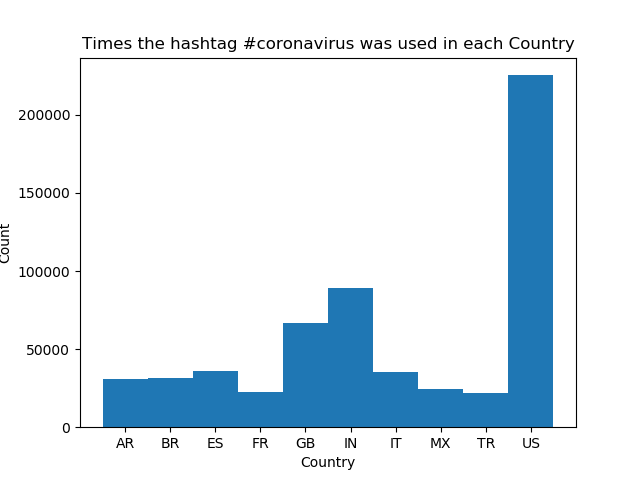
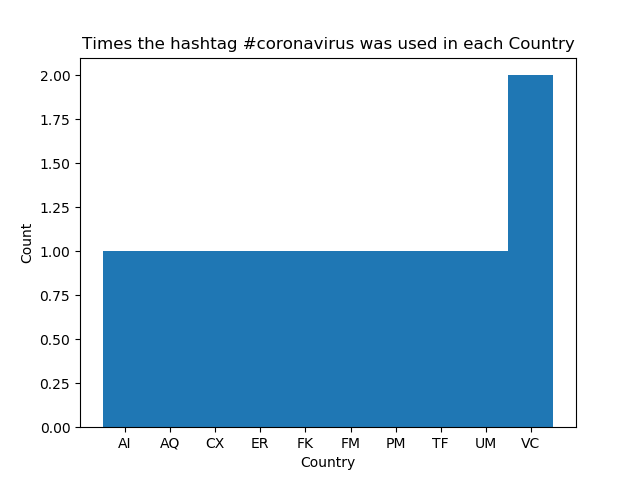
new graph

diff --git a/src/visualize.py b/src/visualize.py
@@ -34,7 +34,7 @@ for k,v in items:
     print(k,':',v)
 
 # create bar graph
-graphItems = sorted(items, key = lambda x : x[1], reverse = True)[:10]
+graphItems = sorted(items, key = lambda x : x[1])[:10]
         #[:10] returns first ten items
 
 graph_x, graph_y = [*zip(*graphItems)]
